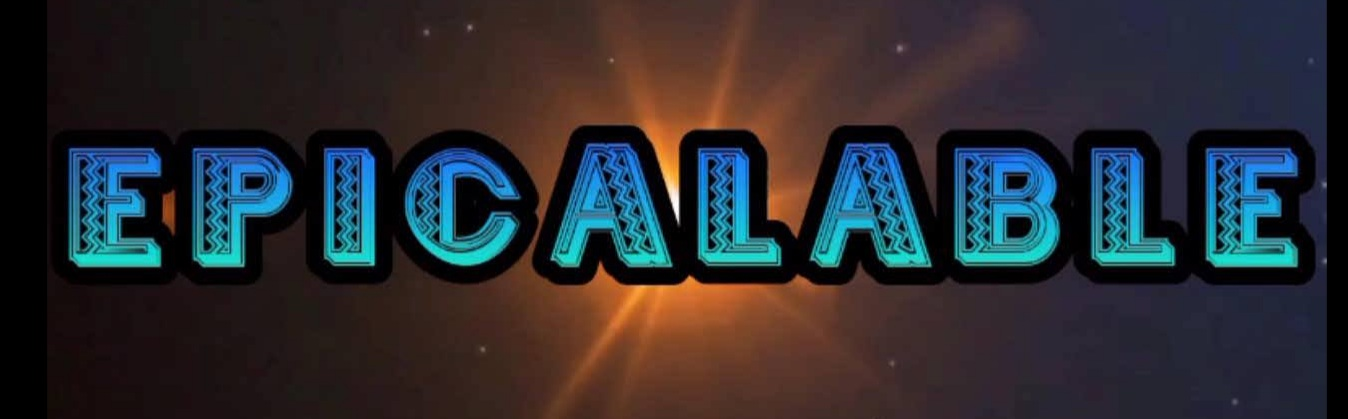
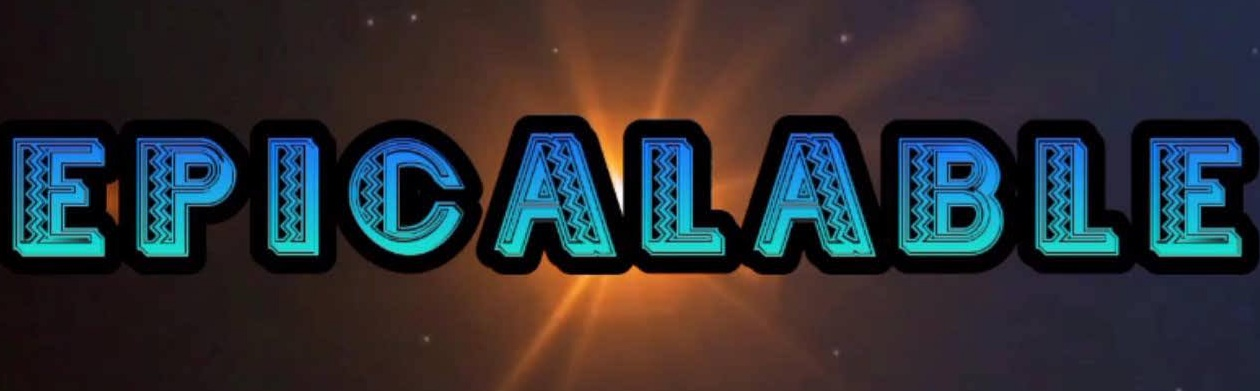
Website technical improvements and bug fixes.

diff --git a/epicalable.html b/epicalable.html
@@ -6,7 +6,9 @@
 <head>
     <meta charset="utf-8">
     <title>EPICALABLE</title>
-    <meta name="viewport" content="width=device-width; initial-scale=1.0; maximum-scale=1.0;  user-scalable=0;">
+    <meta http-equiv="content-type" content="text/html; charset=ISO-8859-1">
+    <meta content="width=device-width; initial-scale=1.0; maximum-scale=1.0;  user-scalable=0;" name="viewport">
+    <link rel="stylesheet" href="image.css">
     <style>
         img {
             display: block;
@@ -20,13 +22,13 @@
     <!-- Navigation -->
     <nav class="w3-bar w3-black">
         <a href="https://epicalable.github.io/epicalable.html" class="w3-button w3-bar-item">Home</a>
-        <a href="https://github.com/Epicalable" class="w3-button w3-bar-item">Our Github</a>
+        <a href="https://github.com/Epicalable" class="w3-button w3-bar-item">Github Repos</a>
         <a href="contact.html" class="w3-button w3-bar-item">Contact Us</a>
     </nav>
 
     <!-- Slide Show -->
     <section>
-        <img src="epicalable.jpg" style="width:800px;height:200px;">
+        <img class="test" src="epicalable.jpg">
     </section>
 
     <!-- Band Description -->
@@ -83,6 +85,7 @@
         <p class="w3-medium">
             Designed by <a href="https://github.com/Epicalable" target="_blank">Epicalable</a>
             <br>under progress STAY TUNED !!!
+            <br>(C) Epicalable 2021
         </p>
     </footer>
 

diff --git a/contact.html b/contact.html
@@ -1,9 +1,15 @@
 <!DOCTYPE html>
 <html>
-<link rel="stylesheet" href="hi.css">
+<link rel="stylesheet" href="stylesheet.css">
 <link rel="stylesheet" href="https://cdnjs.cloudflare.com/ajax/libs/font-awesome/4.6.3/css/font-awesome.min.css">
 
 <body>
+    <!-- Navigation -->
+    <nav class="w3-bar w3-black">
+        <a href="https://epicalable.github.io/epicalable.html" class="w3-button w3-bar-item">Home</a>
+        <a href="https://github.com/Epicalable" class="w3-button w3-bar-item">Github Repos</a>
+        <a href="contact.html" class="w3-button w3-bar-item">Contact Us</a>
+    </nav>
     <section class="w3-row-padding w3-center w3-light-grey">
         <h2 class="w3-wide">EPICALABLE</h2>
         <h3 class="w3-wide">Contact Us</h2>

diff --git a/image.css b/image.css
@@ -1,0 +1,4 @@
+img.test {
+    width: 100%;
+    height: auto;
+}
